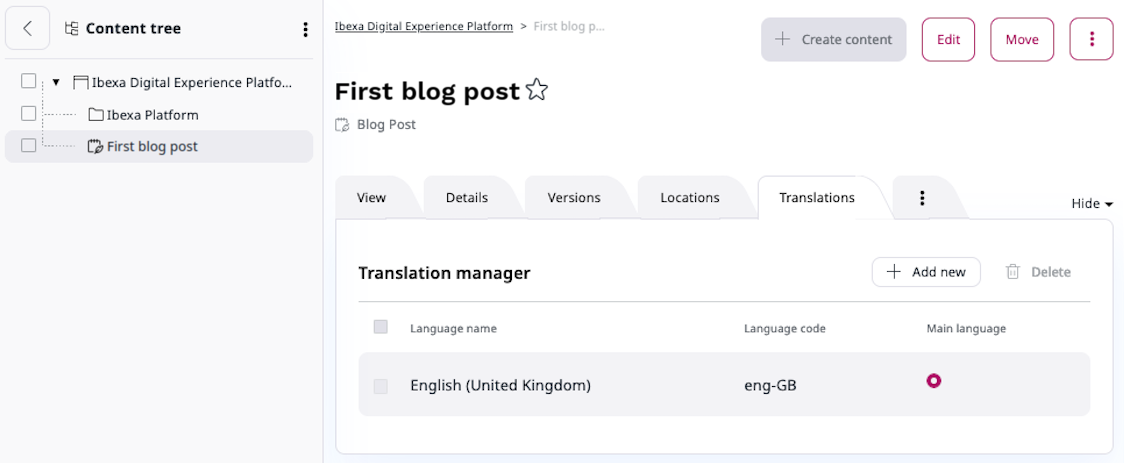
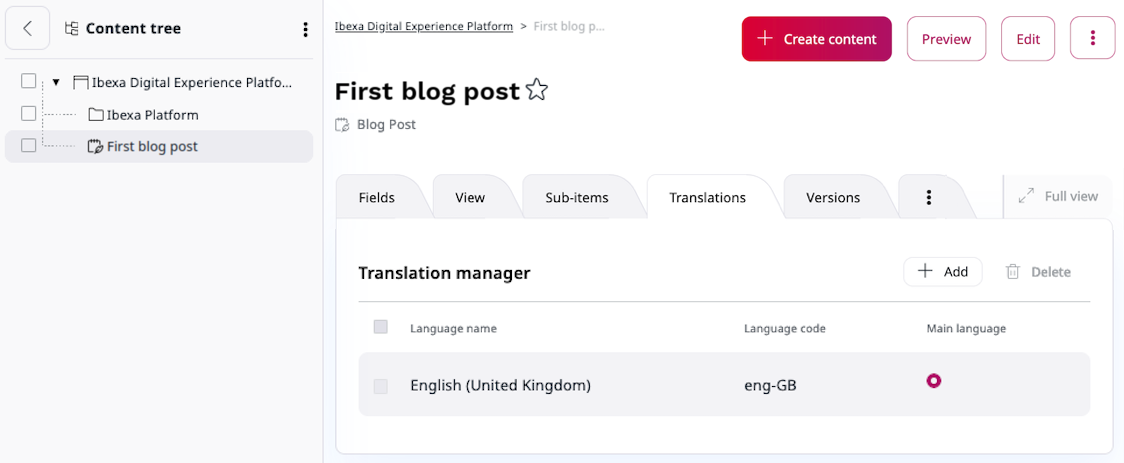
IBX-7111: Add changes resulting from the introduction of Focus mode

diff --git a/docs/customer_management/cp_page_builder.md b/docs/customer_management/cp_page_builder.md
@@ -30,7 +30,7 @@ First, under the `ibexa.siteaccess` [configuration key](configuration.md#configu
 the SiteAccess `list` and to `corporate_group`.
 
 Next, add configuration for `corporate_group` and `custom_portal` under `ibexa.system`.
-Remember to specify `location_id` of your Customer Portal, you can find it under the **Details** tab of your new page.
+Remember to specify `location_id` of your Customer Portal, you can find it under the **Technical details** tab of your new page.
 
 ```yaml hl_lines="8 12 14 16"
 ibexa:
@@ -115,7 +115,7 @@ First, under the `ibexa.siteaccess` [configuration key](configuration.md#configu
 the SiteAccess `list` and to `corporate_group`.
 
 Next, add configuration for `corporate_group` and `custom_portal` under `ibexa.system`.
-Remember to specify `location_id` of the root folder for Customer Portals, you can find it under the **Details** tab. 
+Remember to specify `location_id` of the root folder for Customer Portals, you can find it under the **Technical details** tab.
 
 ```yaml hl_lines="8 12 14 16"
 ibexa:

diff --git a/docs/content_management/locations.md b/docs/content_management/locations.md
@@ -22,7 +22,7 @@ A Content item can have more than one Location. It is then present in two or mor
 For example, an article can be at the same time under "Local news" and "Sports news".
 Even in such a case, one of these places is always the main Location.
 
-You can change the main Location in the Back Office in the Locations tab,
+You can change the main Location in the Back Office in the **Locations** tab,
 or [through the API](managing_content.md#changing-the-main-location).
 
 ![Locations](content_management_locations.png "Locations")

diff --git a/docs/tutorials/page_and_form_tutorial/1_get_a_starter_website.md b/docs/tutorials/page_and_form_tutorial/1_get_a_starter_website.md
@@ -110,7 +110,7 @@ Now return to the Back Office and create some content for your website.
 First, you can hide unneeded Content items from the project root.
 
 Go to **Content structure** and select "Ibexa Digital Experience Platform".
-In the **Sub-items** section, select all the current sub-items and click the **Hide** icon:
+In the **Sub-items** tab, select all the current sub-items and click the **Hide** icon:
 
 ![Hiding Content items you do not need](enterprise_tut_hide_content.png)
 

diff --git a/docs/administration/content_organization/object_states.md b/docs/administration/content_organization/object_states.md
@@ -11,7 +11,7 @@ They are contained in groups.
 
 If a state group contains any states, each Content item is automatically assigned a state from this group.
 
-You can assign states to content in the Back Office in the Content item's Details tab.
+You can assign states to content in the Back Office in the Content item's **Technical details** tab.
 
 ![Assigning an Object state to a Content item](assigning_an_object_state.png "Assigning an Object state to a Content item")
 

diff --git a/docs/getting_started/first_steps.md b/docs/getting_started/first_steps.md
@@ -166,7 +166,7 @@ Make sure it is enabled.
 ![Creating a language](first-steps-create-language.png)
 
 3\. Next, go to the Content structure and open the blog post you had created earlier.
-Switch to the Translations tab and add a new translation.
+Switch to the **Translations** tab and add a new translation.
 
 ![Adding a translation](first-steps-add-translation.png)
 
